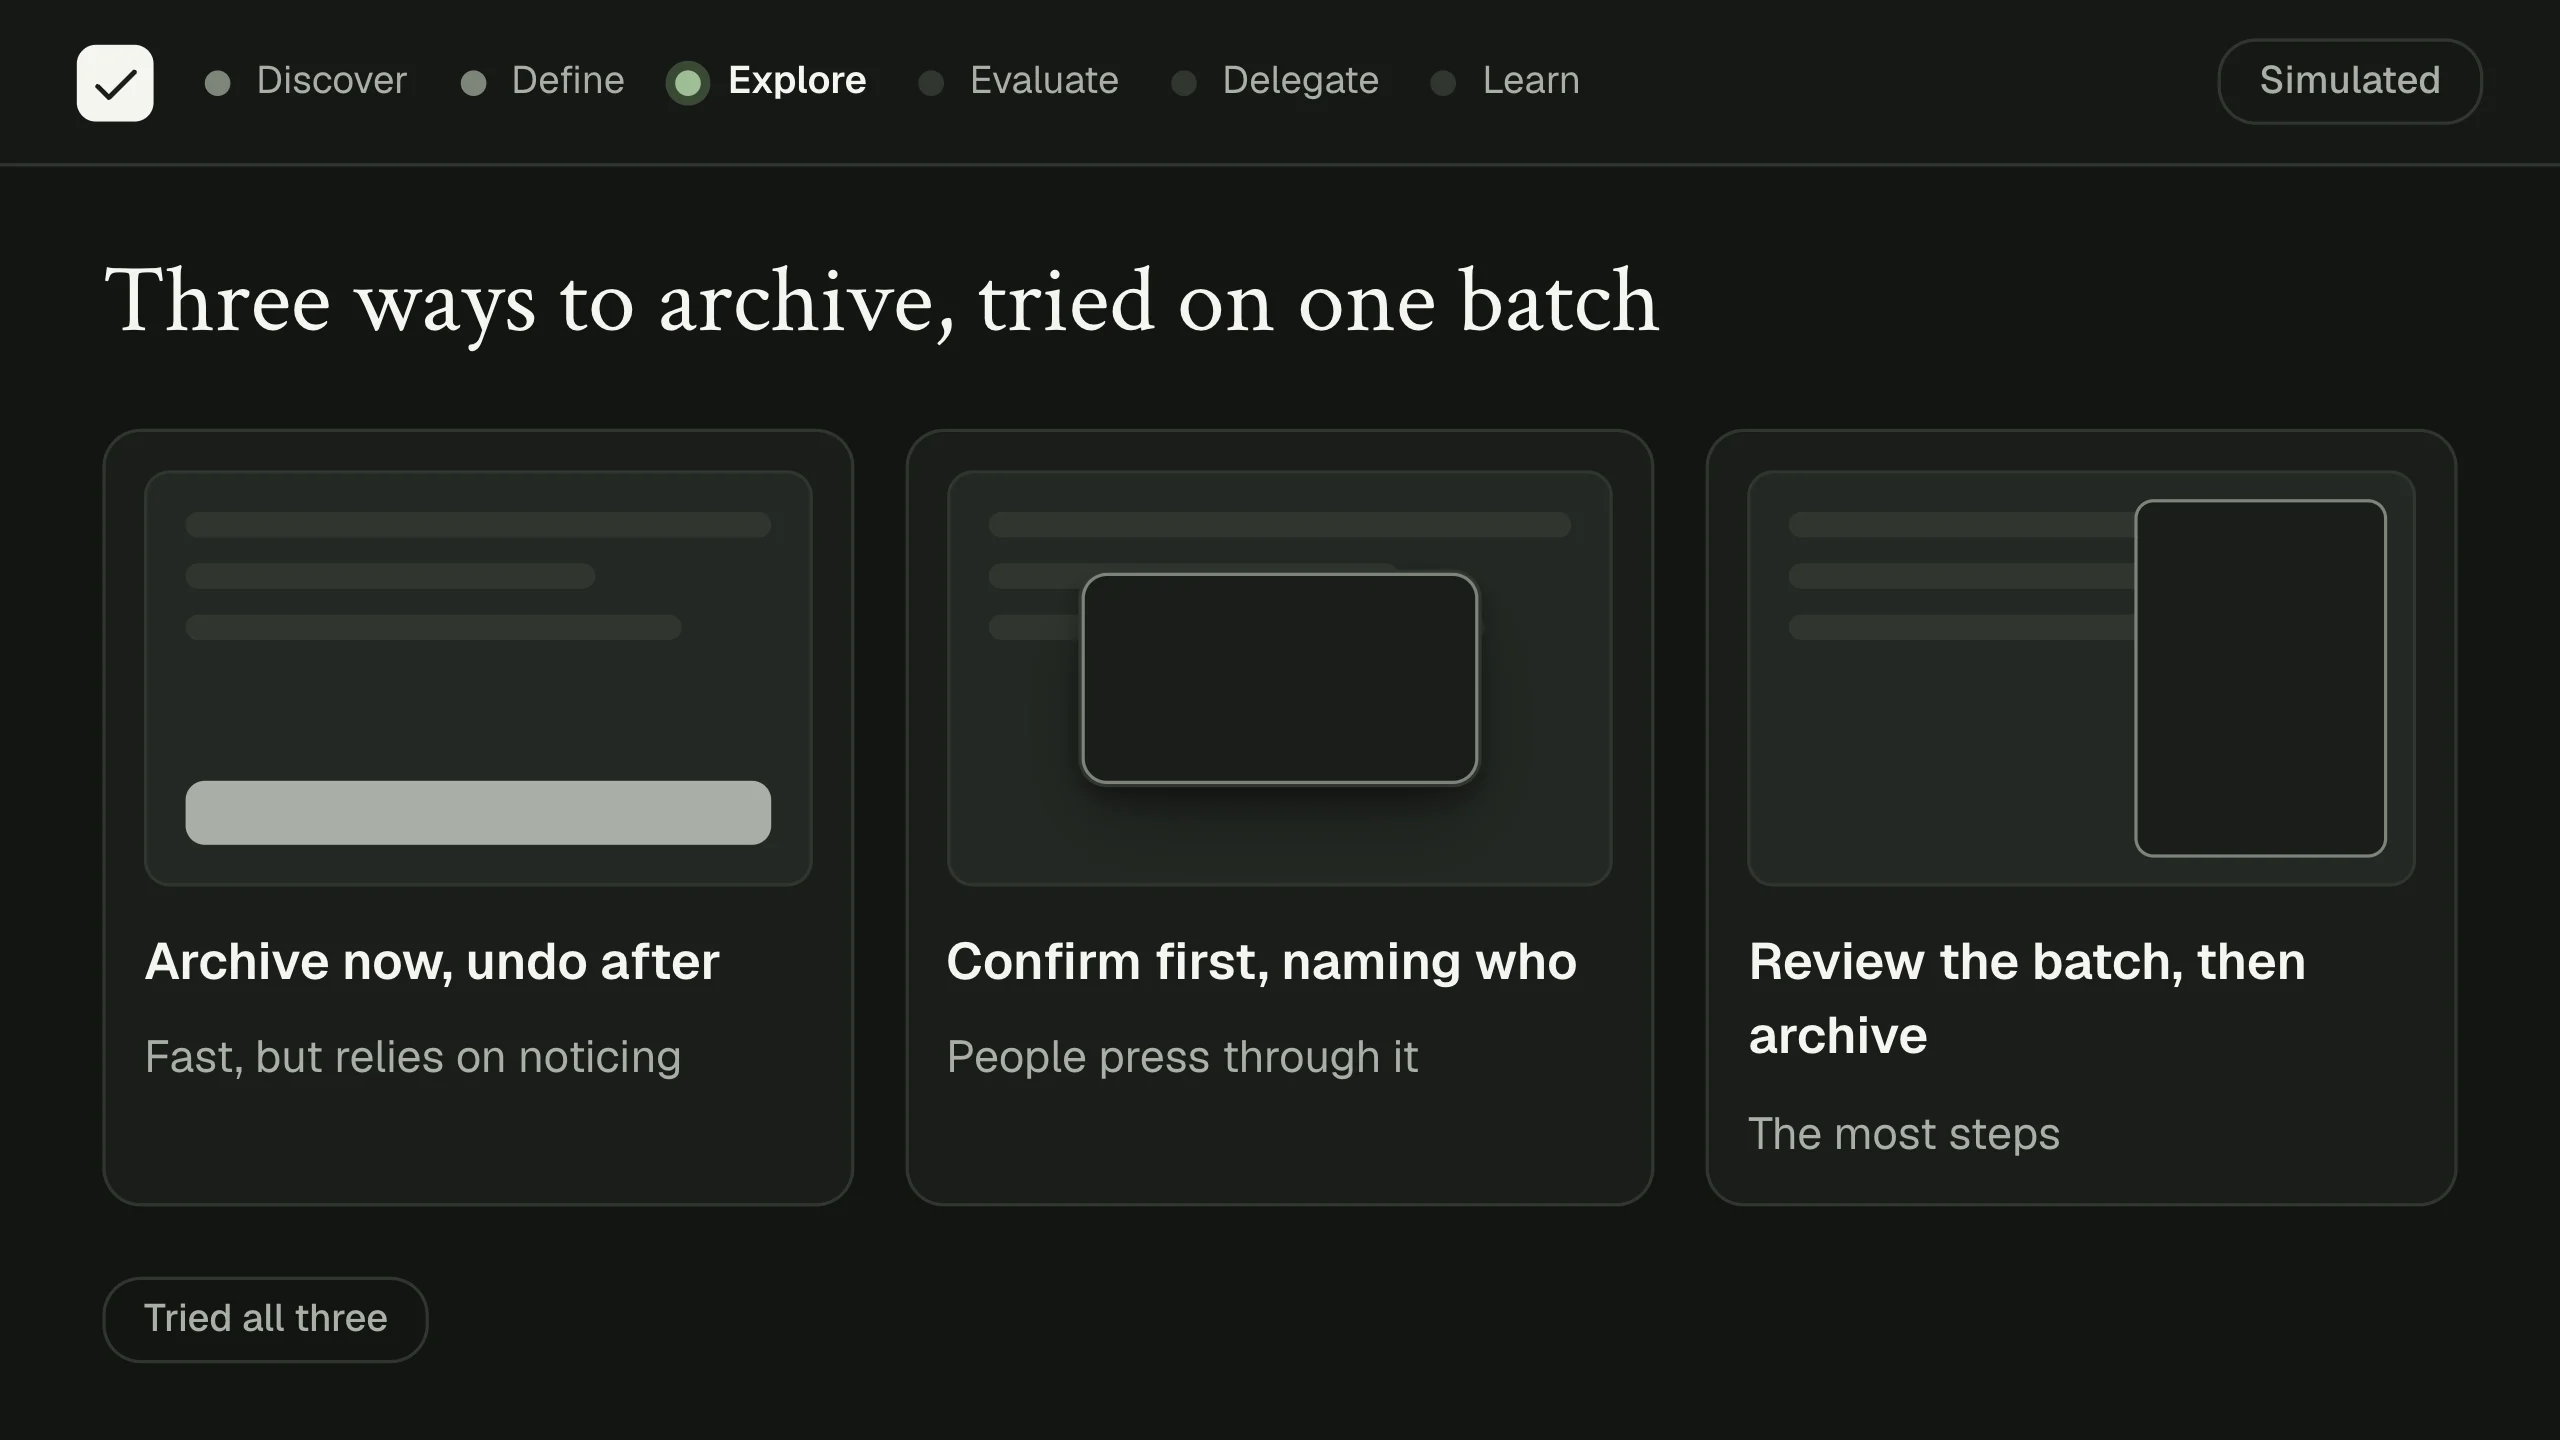
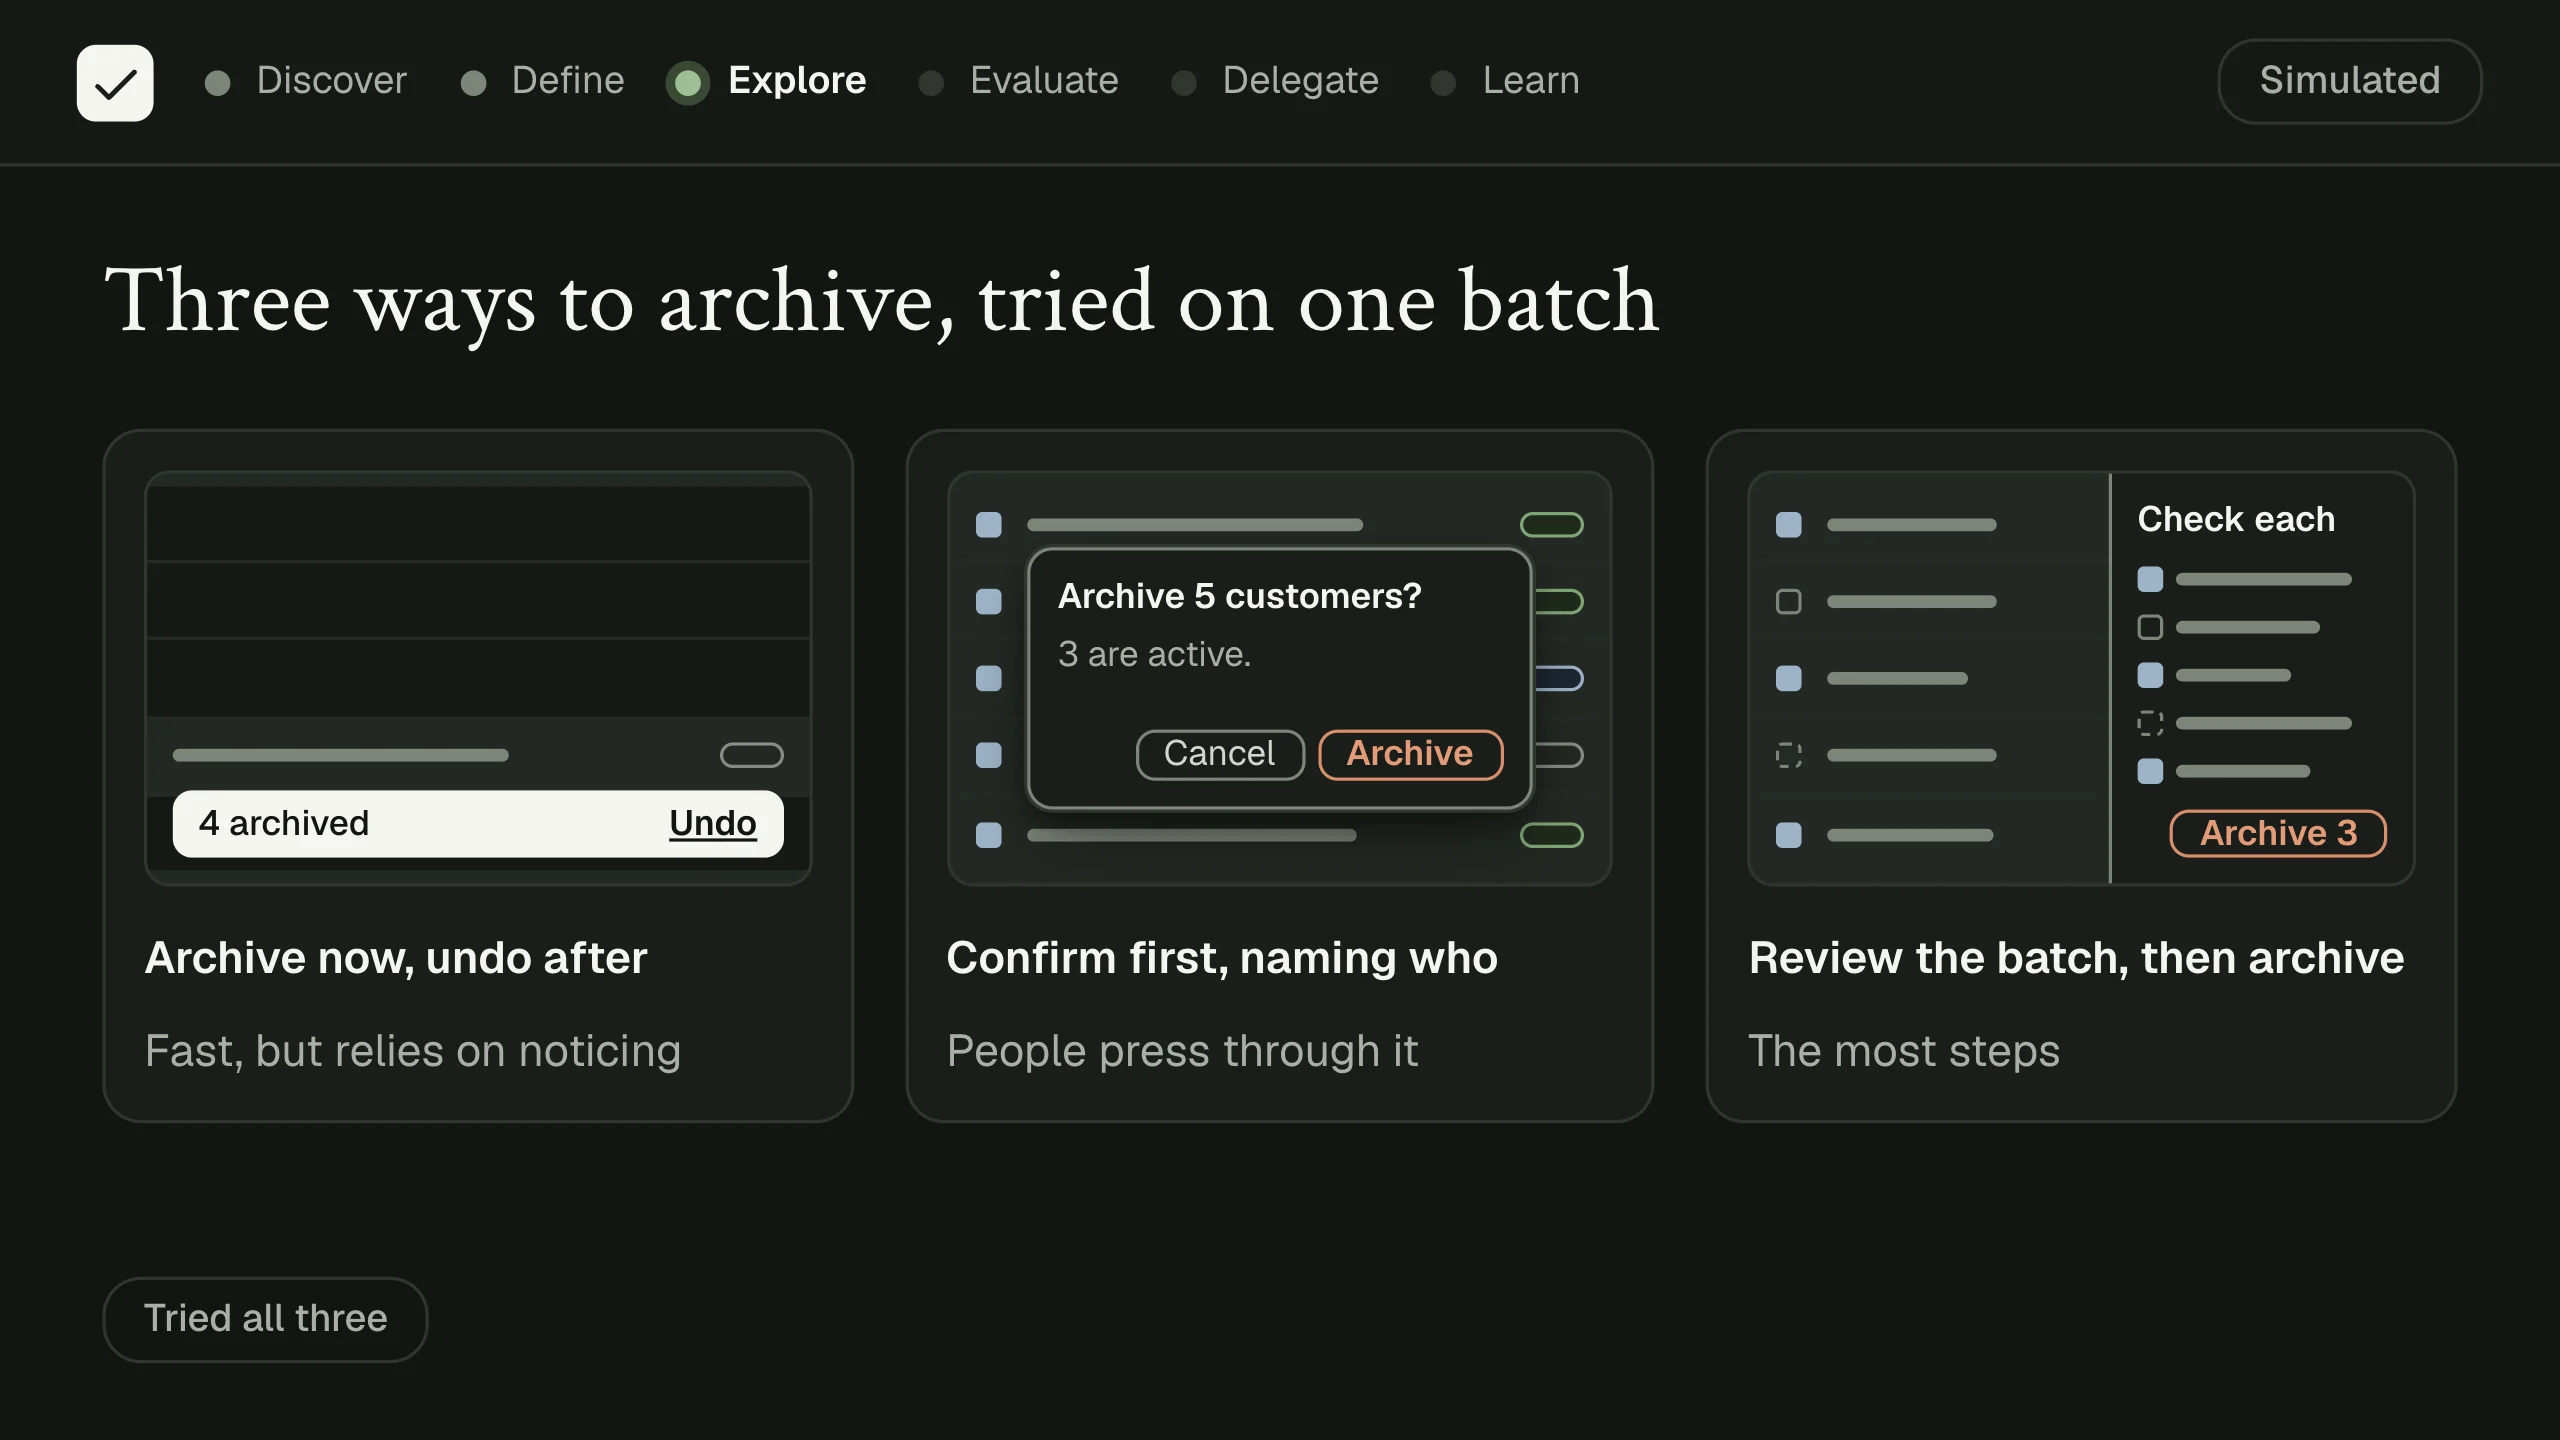
Agent Review's Explore scene retaken after agent-review#61: each direction is a small screen of the batch (the rows, their status chips, and the bar, question or panel over them) where it was a shape, and each name is on one line. Alt text says what each screen shows. agent-review-scene-explore.webp

diff --git a/lab/agent-review.html b/lab/agent-review.html
@@ -527,8 +527,8 @@
               <p class="ar-cycle-story">The agent builds three working versions: undo after, confirm first, and review the whole batch.</p>
               <p class="ar-cycle-call"><strong>Alex&rsquo;s call</strong> Judge each by what it costs the people who archive every day, not by how it looks.</p>
             </div>
-            <figure class="ar-scene"><img src="../img/lab/agent-review-scene-explore.webp?v=2" width="2560" height="1440" loading="lazy" decoding="async"
-                 alt="The prototype&rsquo;s Explore stage: three ways to archive, tried on one batch. Archive now, undo after, drawn as a bar after the press: fast, but relies on noticing. Confirm first, naming who, drawn as a question over the table: people press through it. Review the batch, then archive, drawn as a panel beside it: the most steps. Alex tried all three." /></figure>
+            <figure class="ar-scene"><img src="../img/lab/agent-review-scene-explore.webp?v=3" width="2560" height="1440" loading="lazy" decoding="async"
+                 alt="The prototype&rsquo;s Explore stage: three ways to archive, each tried on the same five customers. Archive now, undo after: the four archived rows gone, Monarch Dental Group left, and a bar saying 4 archived with Undo; fast, but relies on noticing. Confirm first, naming who: every row checked under the question Archive 5 customers? 3 are active, with Cancel and Archive; people press through it. Review the batch, then archive: a Check each panel beside the table, one active customer unchecked, Monarch&rsquo;s box unavailable, and Archive 3; the most steps. Alex tried all three." /></figure>
           </li>
           <li class="ar-cycle-full">
             <div class="ar-cycle-text">
